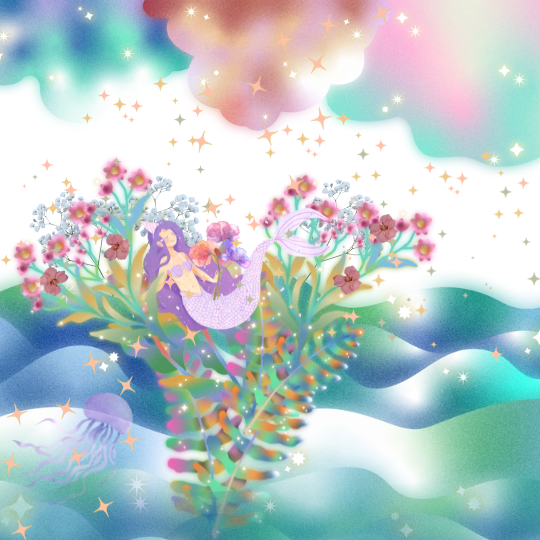
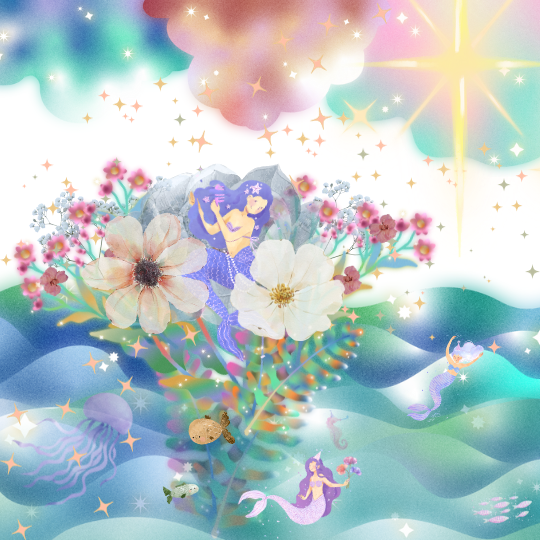
added new img & restart button

diff --git a/style.css b/style.css
@@ -1,7 +1,6 @@
-
 body {
     margin: 0;
- font-family: "Dancing Script", cursive;;
+    font-family: "Lemon", serif;
     background-color: black;
 }
 
@@ -14,7 +13,7 @@ body {
 
 .kartenrahmen {
     border-radius: 20px;
-    padding: 20px;
+    padding: 2%;
     background: linear-gradient(#4e0655, #255eb3);
     width: 25%;
     margin: 0 auto;
@@ -26,8 +25,8 @@ body {
     justify-content: space-around;
     margin: 0 auto;
     text-align: center;
-    background: linear-gradient(#df76d6, #e3f030, #30f032, #0bd5e4);
-    padding: 2% 5%;
+    /* background: linear-gradient(rgba(118, 211, 223, 0.6), rgba(95, 236, 1, 0.6), rgba(48, 93, 240, 0.6), rgba(11, 213, 228, 0.6)); */
+    padding: 7% 10%;
     height: 80vh;
     border-radius: 2em;
     box-shadow: inset 5px 5px 25px #050b46;
@@ -35,23 +34,36 @@ body {
 }
 
 h2 {
-    font-size: max(2.5vw, 1.8em);
-    margin: 0;
-    text-shadow: 2px 2px 2px black;
-    color: #72dacc;
+    background: linear-gradient(to right, #eb04df, #42b2e6, #DD2476);
+    /* Replace these colors with your desired gradient */
+    -webkit-background-clip: text;
+    -webkit-text-fill-color: transparent;
+    font-size: 36px;
+    text-align: center;
+}
+
+h2:hover {
+    background: linear-gradient(to right, #04eb3e, #0498b3, #E097A8);
+    /* Replace these colors with your desired gradient */
+    -webkit-background-clip: text;
+    -webkit-text-fill-color: transparent;
+    font-size: 36px;
+    text-align: center;
+
 }
 
 .bildcontainer {
     border: 5px solid #fcf596;
     border-radius: 5px;
     box-sizing: border-box;
-    background-image: url(bilder/hintergrund.png);
+    /* background-image: url(bilder/hintergrund.png); */
     background-size: cover;
     background-repeat: no-repeat;
     background-position: bottom center;
     display: flex;
     align-items: flex-end;
-    box-shadow: inset 0px 0px 25px black;
+    box-shadow: inset 21px 21px 52px #48bc72,
+        inset -21px -21px 52px #190b8f;
 }
 
 #kartenbild {
@@ -61,7 +73,7 @@ h2 {
 .erfahrungscontainer {
     display: flex;
     justify-content: center;
-    margin: 0 auto;
+    margin: 2em auto 1em;
     padding: 10px 0;
     width: 75%;
     background: linear-gradient(to right, #7f85f7, #4072bd, #df27b7);
@@ -81,28 +93,49 @@ h2 {
     font-size: xx-large;
     margin: 0 auto;
     padding: 10px 50px;
-    background-image: linear-gradient(#7407f0, #df03e7);
+    background-image: linear-gradient(#c899fd, #f232f8);
     font-weight: bold;
-    border: 5px solid #d4cfc9;
+    border: 5px solid #f1f368;
     border-radius: 10%/50%;
     box-shadow: inset 0px 0px 10px black;
-    color: white;
+    color: rgb(255, 255, 255);
     text-shadow: 1px 1px 5px black;
 }
 
 #giessen-button:hover {
     box-shadow: inset 0px 0px 5px black, 0px 0px 10px rgb(77, 255, 240);
     cursor: pointer;
-    border-color: #eaf86a;
+    border-color: #f81bf8;
 }
 
 #giessen-button:focus {
     outline: 0;
 }
 
+#reset-button {
+    background-image: linear-gradient(#7407f0, #df03e7);
+    border: 5px solid #64aaec;
+    border-radius: 10%/50%;
+    margin: 2em auto 1em;
+    padding:2em auto ; 
+    height: 3em;
+    width: 5em;
+    font-family: "Lemon", serif;
+    text-align: center;
+    color: #c899fd;
+}
+
+#reset-button:hover {
+    border-color: #7f85f7;
+}
+
 @media (max-width: 1200px) {
     .kartenrahmen {
         width: 50%;
+    }
+
+    .erfahrungscontainer {
+        margin: 1em 2.5em;
     }
 }
 
@@ -111,9 +144,10 @@ h2 {
         width: 75%;
     }
 
-    .erfahrungscontainer{
+    .erfahrungscontainer {
         padding: 5px 0;
         width: 95%;
+        margin: 2em auto 1em;
     }
 
     #giessen-button {

diff --git a/index.html b/index.html
@@ -7,9 +7,8 @@
     <title>MiniMagicGame</title>
     <link rel="preconnect" href="https://fonts.googleapis.com">
     <link rel="preconnect" href="https://fonts.gstatic.com" crossorigin>
-    <link href="https://fonts.googleapis.com/css2?family=Dancing+Script:wght@400..700&display=swap" rel="stylesheet">
+    <link href="https://fonts.googleapis.com/css2?family=Lemon&display=swap" rel="stylesheet">
     
-
     <link rel="stylesheet" href="style.css">
     <script src="index.js"></script>
 </head>
@@ -30,6 +29,7 @@
                     <p id="benoetigtes-giessen" class="kartentext">3</p>
                 </div>
                 <button id="giessen-button" onclick="giessen()">add magic ✨</button>
+                <button id="reset-button" onclick="resetGame()">new</button>
             </div>
         </div>
     </div>

diff --git a/index.js b/index.js
@@ -38,3 +38,10 @@ function giessen() {
 
 }
 
+
+function resetGame() {
+    anzahlGegossen = 0;
+    document.getElementById("bereits-gegossen").innerHTML = anzahlGegossen;
+    document.getElementById("benoetigtes-giessen").innerHTML = 3;
+    document.getElementById("kartenbild").setAttribute("src", "bilder/Pflanze1.png");
+}
